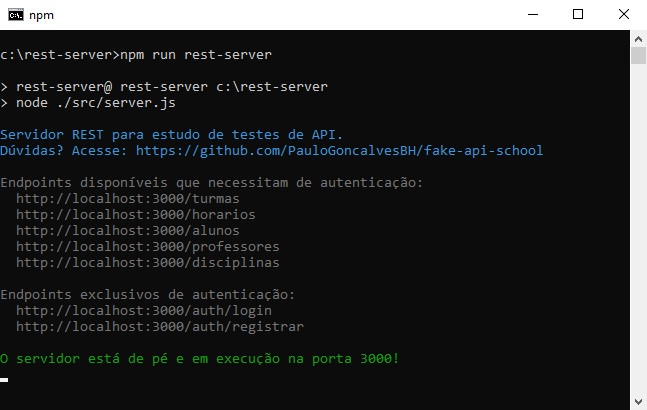
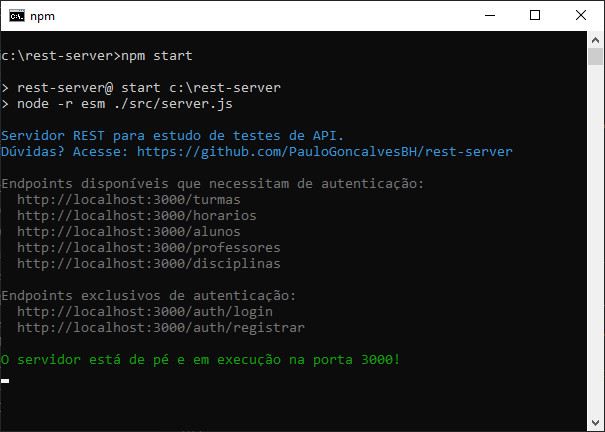
Change command to start server

diff --git a/README.md b/README.md
@@ -92,7 +92,7 @@ npm install --production
 Para iniciar o servidor e poder consumir os endpoints disponíveis é preciso enviar o seguinte comando:
 
 ```sh
-npm run rest-server
+npm start
 ```
 
 Após isso surgirá as seguintes mensagens no terminal:
